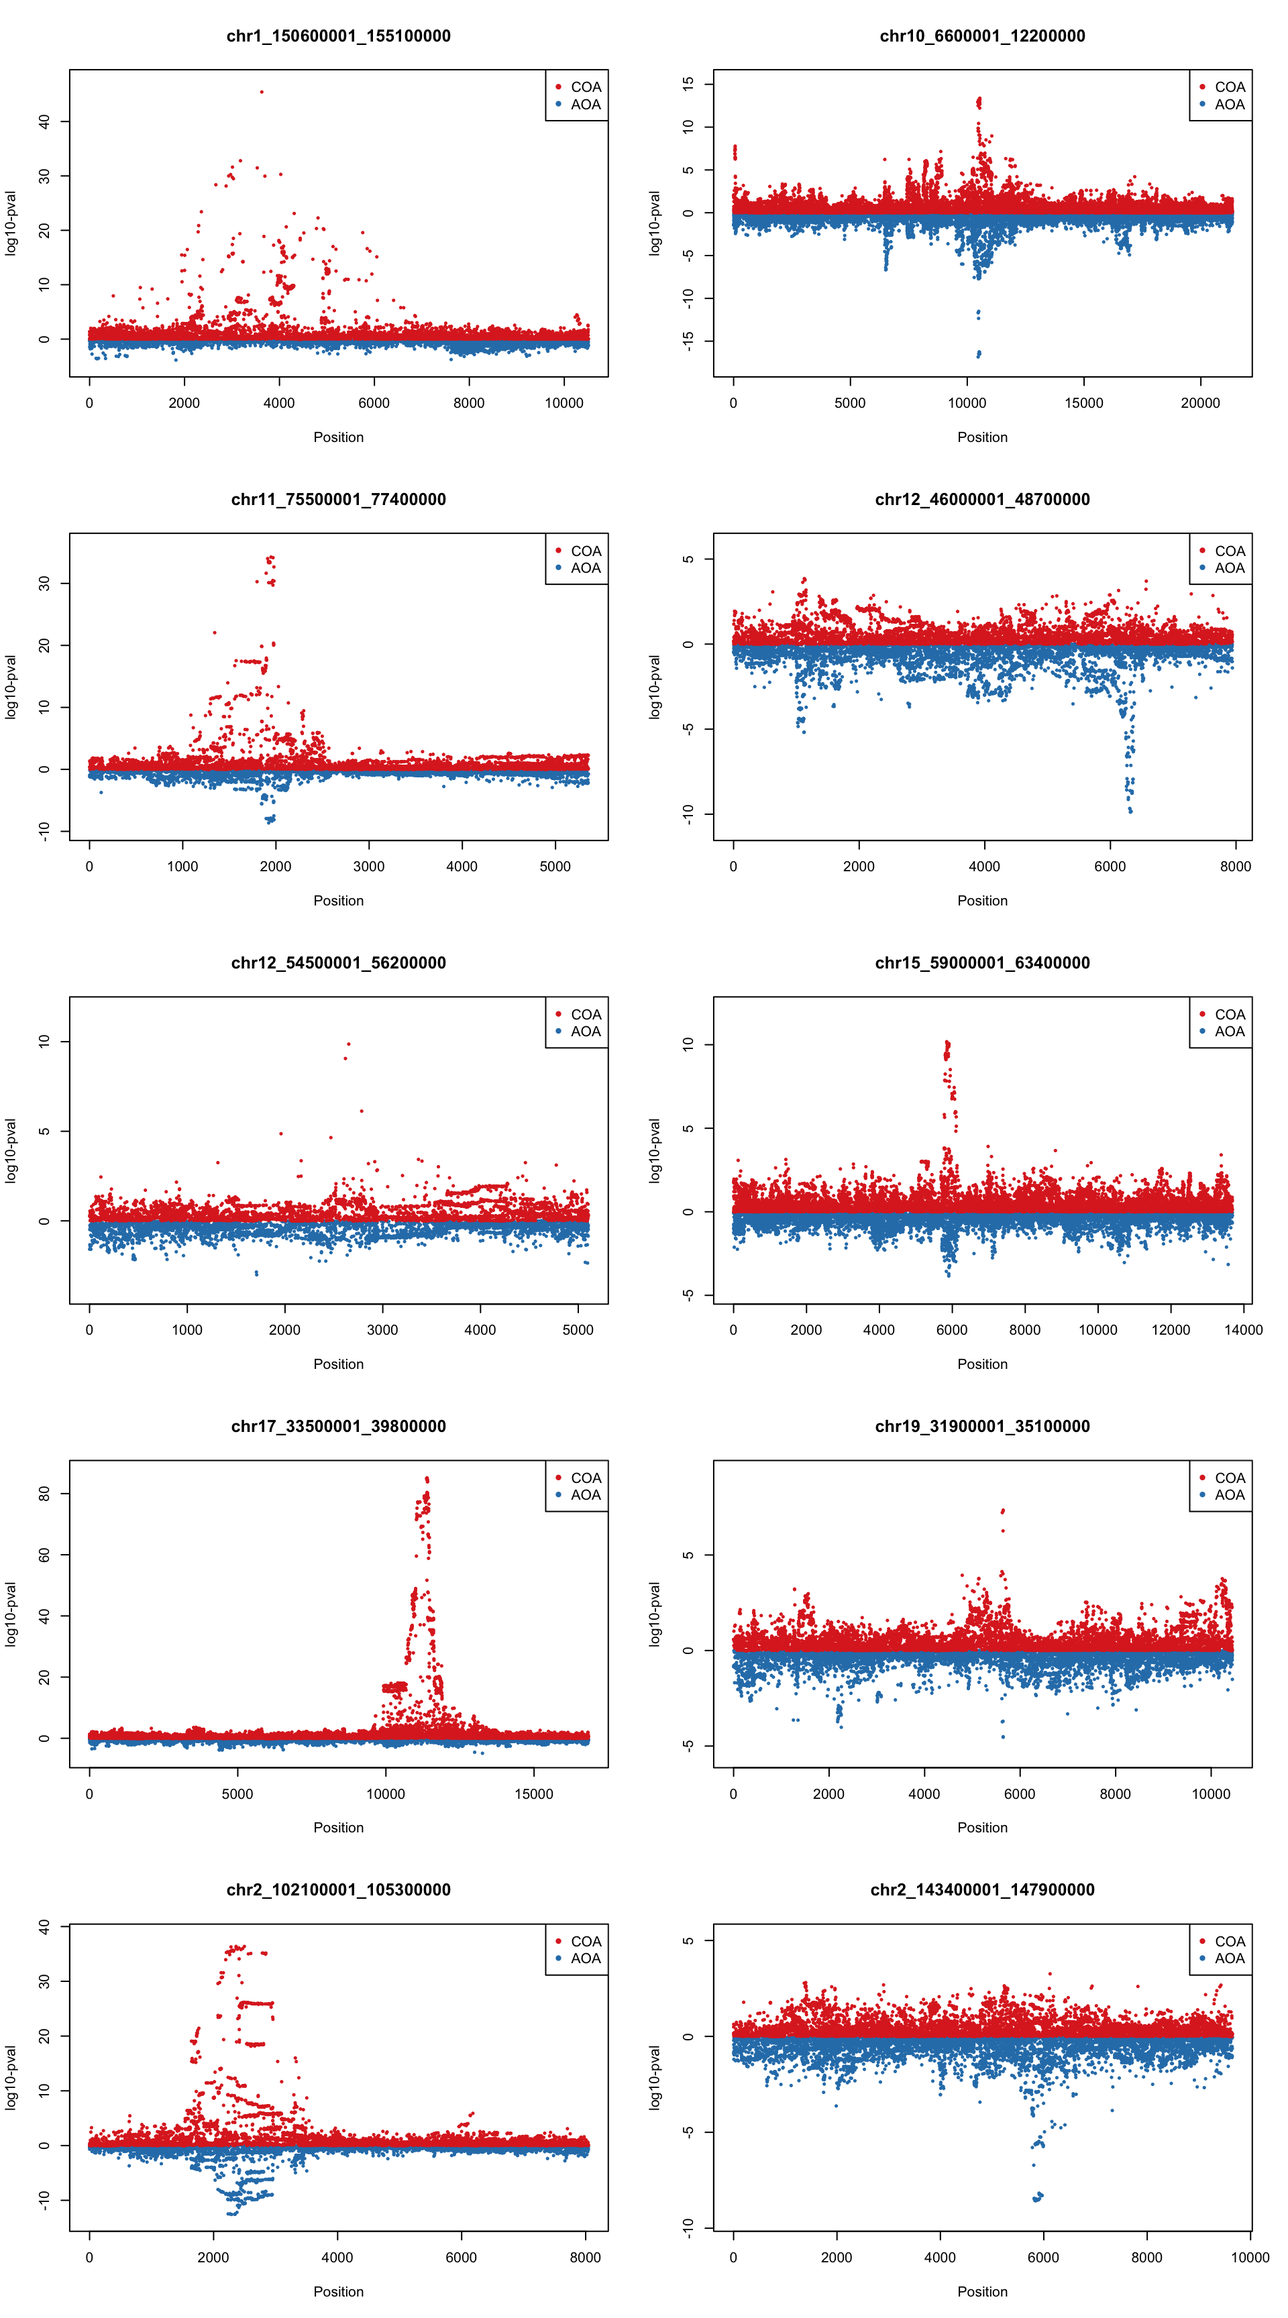
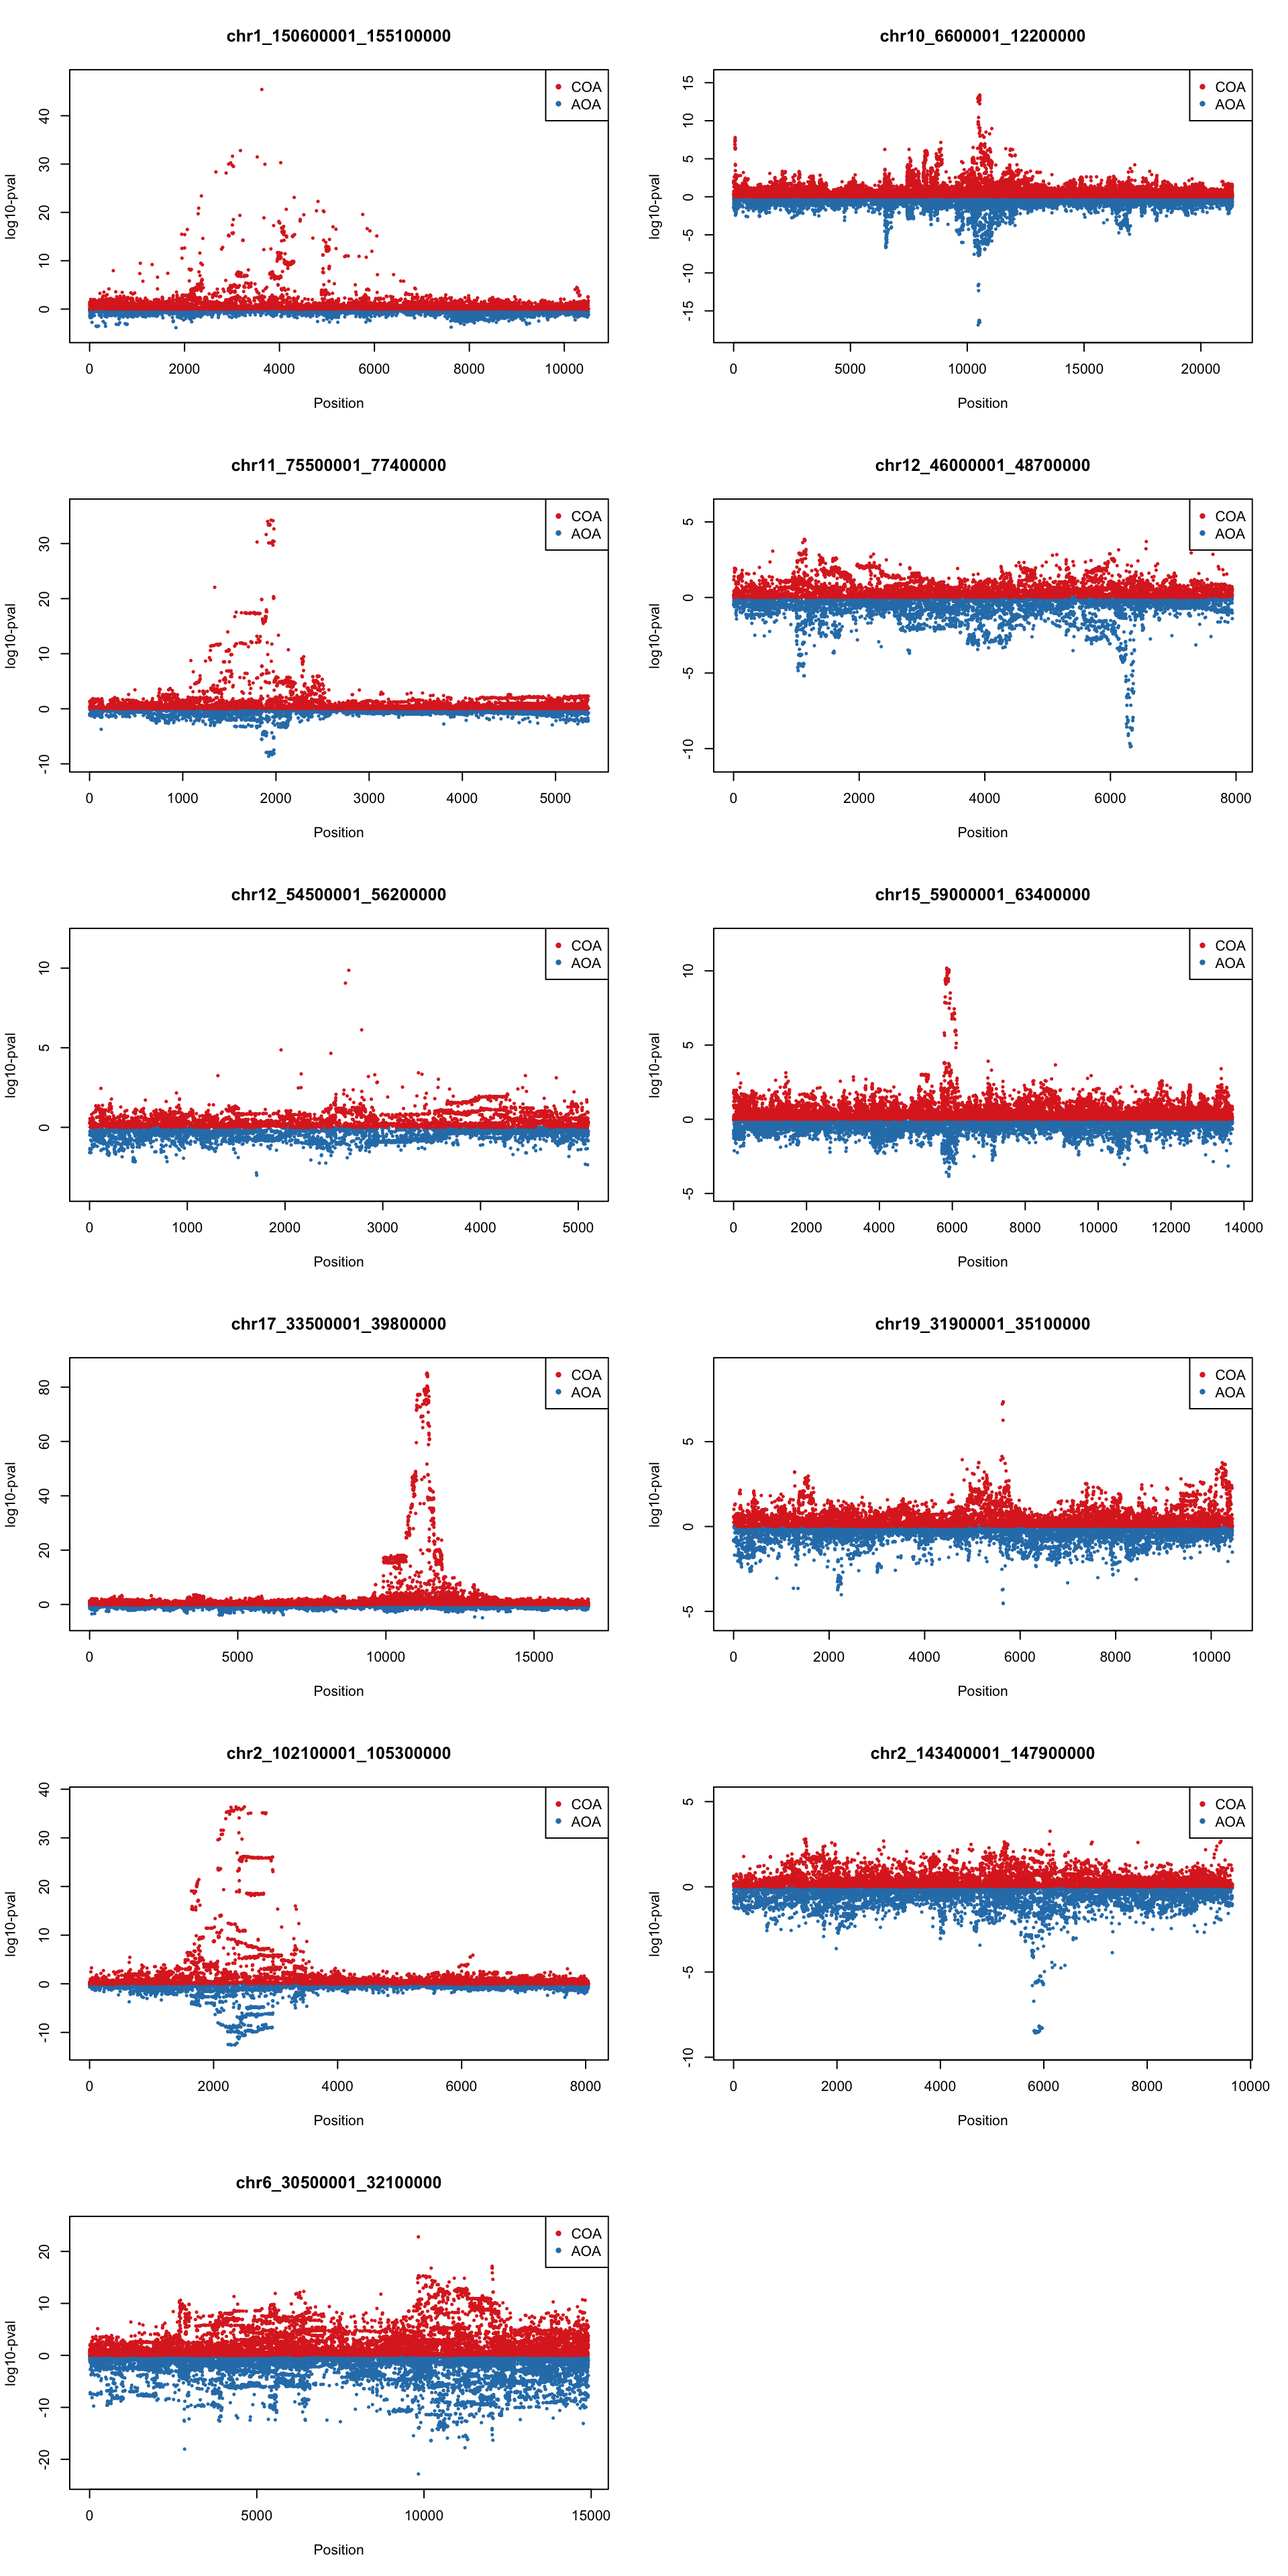
Build site.

diff --git a/docs/gwas_asthma.html b/docs/gwas_asthma.html
@@ -475,16 +475,16 @@ This reproducible <a href="http://rmarkdown.rstudio.com">R Markdown</a> analysis
 <div class="panel panel-default">
 <div class="panel-heading">
 <p class="panel-title">
-<a data-toggle="collapse" data-parent="#workflowr-checks" href="#strongRepositoryversionstrongahrefhttpsgithubcomyunqiyang0215survivaldataanalysistreeebeca153db80e370358556c4a1f8d979619041eftargetblankebeca15a"> <span class="glyphicon glyphicon-ok text-success" aria-hidden="true"></span> <strong>Repository version:</strong> <a href="https://github.com/yunqiyang0215/survival-data-analysis/tree/ebeca153db80e370358556c4a1f8d979619041ef" target="_blank">ebeca15</a> </a>
+<a data-toggle="collapse" data-parent="#workflowr-checks" href="#strongRepositoryversionstrongahrefhttpsgithubcomyunqiyang0215survivaldataanalysistree25f958e5c96339f80014ccf8f79c730e802cc3e1targetblank25f958ea"> <span class="glyphicon glyphicon-ok text-success" aria-hidden="true"></span> <strong>Repository version:</strong> <a href="https://github.com/yunqiyang0215/survival-data-analysis/tree/25f958e5c96339f80014ccf8f79c730e802cc3e1" target="_blank">25f958e</a> </a>
 </p>
 </div>
[2 lines of base64/hex data omitted]
 <div class="panel-body">
 <p>
 Great! You are using Git for version control. Tracking code development and connecting the code version to the results is critical for reproducibility.
 </p>
 <p>
-The results in this page were generated with repository version <a href="https://github.com/yunqiyang0215/survival-data-analysis/tree/ebeca153db80e370358556c4a1f8d979619041ef" target="_blank">ebeca15</a>. See the <em>Past versions</em> tab to see a history of the changes made to the R Markdown and HTML files.
+The results in this page were generated with repository version <a href="https://github.com/yunqiyang0215/survival-data-analysis/tree/25f958e5c96339f80014ccf8f79c730e802cc3e1" target="_blank">25f958e</a>. See the <em>Past versions</em> tab to see a history of the changes made to the R Markdown and HTML files.
 </p>
 <p>
 Note that you need to be careful to ensure that all relevant files for the analysis have been committed to Git prior to generating the results (you can use <code>wflow_publish</code> or <code>wflow_git_commit</code>). workflowr only checks the R Markdown file, but you know if there are other scripts or data files that it depends on. Below is the status of the Git repository when the results were generated:
@@ -535,6 +535,40 @@ Message
 </tr>
 </thead>
 <tbody>
+<tr>
+<td>
+Rmd
+</td>
+<td>
+<a href="https://github.com/yunqiyang0215/survival-data-analysis/blob/25f958e5c96339f80014ccf8f79c730e802cc3e1/analysis/gwas_asthma.Rmd" target="_blank">25f958e</a>
+</td>
+<td>
+yunqiyang0215
+</td>
+<td>
+2024-06-18
+</td>
+<td>
+wflow_publish("analysis/gwas_asthma.Rmd")
+</td>
+</tr>
+<tr>
+<td>
+html
+</td>
+<td>
+<a href="https://rawcdn.githack.com/yunqiyang0215/survival-data-analysis/1455c77adaddd0aa8f45c79e5535249c3e039637/docs/gwas_asthma.html" target="_blank">1455c77</a>
+</td>
+<td>
+yunqiyang0215
+</td>
+<td>
+2024-06-18
+</td>
+<td>
+Build site.
+</td>
+</tr>
 <tr>
 <td>
 html
@@ -863,7 +897,7 @@ yunqiyang0215
 file.aoa &lt;- list.files(path = path_to_files, pattern = &quot;^aoa.*\\.rds$&quot;, full.names = TRUE)
 file.coa &lt;- list.files(path = path_to_files, pattern = &quot;^coa.*\\.rds$&quot;, full.names = TRUE)
 file &lt;- list.files(path = path_to_files, pattern = &quot;^all.*\\.rds$&quot;, full.names = TRUE)</code></pre>
-<pre class="r"><code>par(mfrow = c(5,2))
+<pre class="r"><code>par(mfrow = c(6,2))
 pattern &lt;- &quot;chr[0-9XYM]+_[0-9]+_[0-9]+&quot;
 for (i in 1:length(file)){
   region = file[i]
@@ -896,6 +930,17 @@ Date
 <tbody>
 <tr>
 <td>
+<a href="https://github.com/yunqiyang0215/survival-data-analysis/blob/1455c77adaddd0aa8f45c79e5535249c3e039637/docs/figure/gwas_asthma.Rmd/unnamed-chunk-6-1.png" target="_blank">1455c77</a>
+</td>
+<td>
+yunqiyang0215
+</td>
+<td>
+2024-06-18
+</td>
+</tr>
+<tr>
+<td>
 <a href="https://github.com/yunqiyang0215/survival-data-analysis/blob/bd3def9a2dcebd566320b5b6302a2c22af62aa3f/docs/figure/gwas_asthma.Rmd/unnamed-chunk-6-1.png" target="_blank">bd3def9</a>
 </td>
 <td>
@@ -920,8 +965,7 @@ yunqiyang0215
 </table>
 </div>
 </div>
-<p><img src="figure/gwas_asthma.Rmd/unnamed-chunk-6-2.png" width="960" style="display: block; margin: auto;" /></p>
-<pre class="r"><code>par(mfrow = c(5,2))
+<pre class="r"><code>par(mfrow = c(6,2))
 for (i in 1:length(file.aoa)){
   region.aoa = file.aoa[i]
   region.coa = file.coa[i]
@@ -959,6 +1003,17 @@ Date
 <tbody>
 <tr>
 <td>
+<a href="https://github.com/yunqiyang0215/survival-data-analysis/blob/1455c77adaddd0aa8f45c79e5535249c3e039637/docs/figure/gwas_asthma.Rmd/unnamed-chunk-7-1.png" target="_blank">1455c77</a>
+</td>
+<td>
+yunqiyang0215
+</td>
+<td>
+2024-06-18
+</td>
+</tr>
+<tr>
+<td>
 <a href="https://github.com/yunqiyang0215/survival-data-analysis/blob/bd3def9a2dcebd566320b5b6302a2c22af62aa3f/docs/figure/gwas_asthma.Rmd/unnamed-chunk-7-1.png" target="_blank">bd3def9</a>
 </td>
 <td>
@@ -983,13 +1038,12 @@ yunqiyang0215
 </table>
 </div>
 </div>
-<p><img src="figure/gwas_asthma.Rmd/unnamed-chunk-7-2.png" width="960" style="display: block; margin: auto;" /></p>
 </div>
 <div id="compare-logistic-gwas-and-survival-gwas" class="section level3">
 <h3>3. Compare logistic gwas and survival gwas</h3>
 <pre class="r"><code>file.logistic &lt;- list.files(path=&quot;/Users/nicholeyang/Downloads/survivalsusie/data/gwas_logistic_out/all&quot;, pattern = &quot;\\.glm\\.logistic$&quot;, full.names = TRUE)
 file.survival &lt;- list.files(path = &quot;/Users/nicholeyang/Downloads/survivalsusie/result/gwas_surv&quot;, pattern = &quot;^all.*\\.rds$&quot;, full.names = TRUE)</code></pre>
-<pre class="r"><code>par(mfrow = c(5,2))
+<pre class="r"><code>par(mfrow = c(6,2))
 
 pattern &lt;- &quot;chr[0-9XYM]+_[0-9]+_[0-9]+&quot;
 for (i in 1:length(file.survival)){
@@ -1037,6 +1091,17 @@ Date
 <tbody>
 <tr>
 <td>
+<a href="https://github.com/yunqiyang0215/survival-data-analysis/blob/1455c77adaddd0aa8f45c79e5535249c3e039637/docs/figure/gwas_asthma.Rmd/unnamed-chunk-9-1.png" target="_blank">1455c77</a>
+</td>
+<td>
+yunqiyang0215
+</td>
+<td>
+2024-06-18
+</td>
+</tr>
+<tr>
+<td>
 <a href="https://github.com/yunqiyang0215/survival-data-analysis/blob/4e9442a48da53bfa497605c831994d7942f67280/docs/figure/gwas_asthma.Rmd/unnamed-chunk-9-1.png" target="_blank">4e9442a</a>
 </td>
 <td>
@@ -1072,7 +1137,6 @@ yunqiyang0215
 </table>
 </div>
 </div>
-<p><img src="figure/gwas_asthma.Rmd/unnamed-chunk-9-2.png" width="960" style="display: block; margin: auto;" /></p>
 <br>
 <p>
 <button type="button" class="btn btn-default btn-workflowr btn-workflowr-sessioninfo" data-toggle="collapse" data-target="#workflowr-sessioninfo" style="display: block;">
